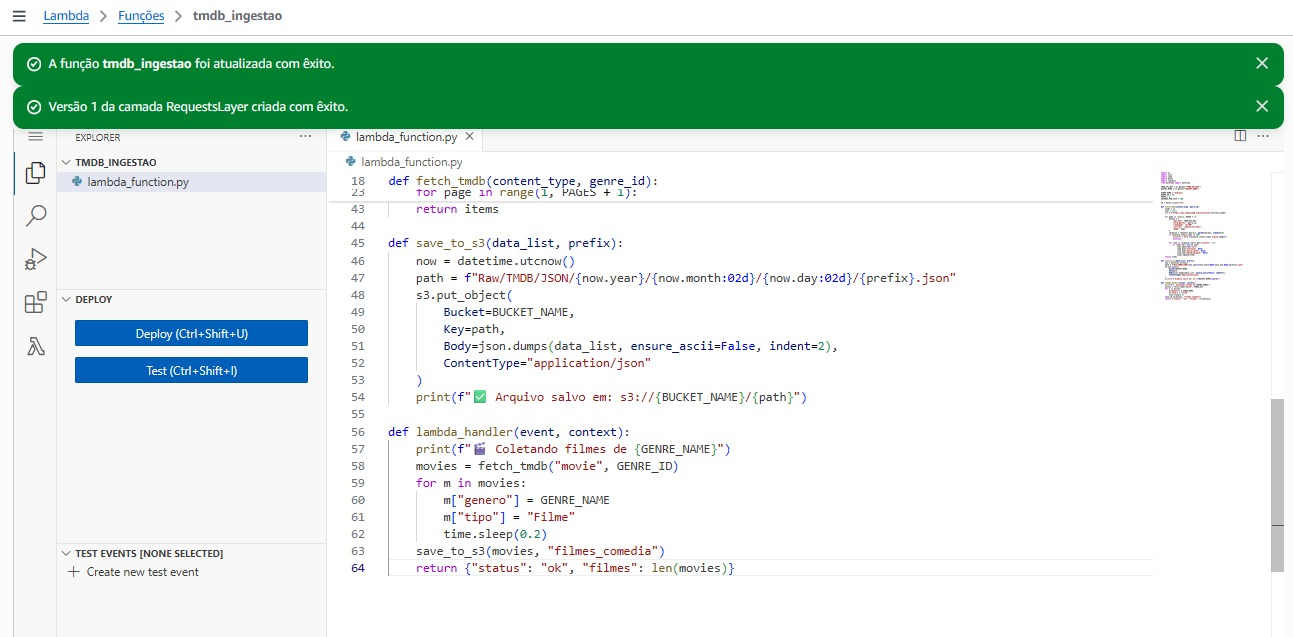
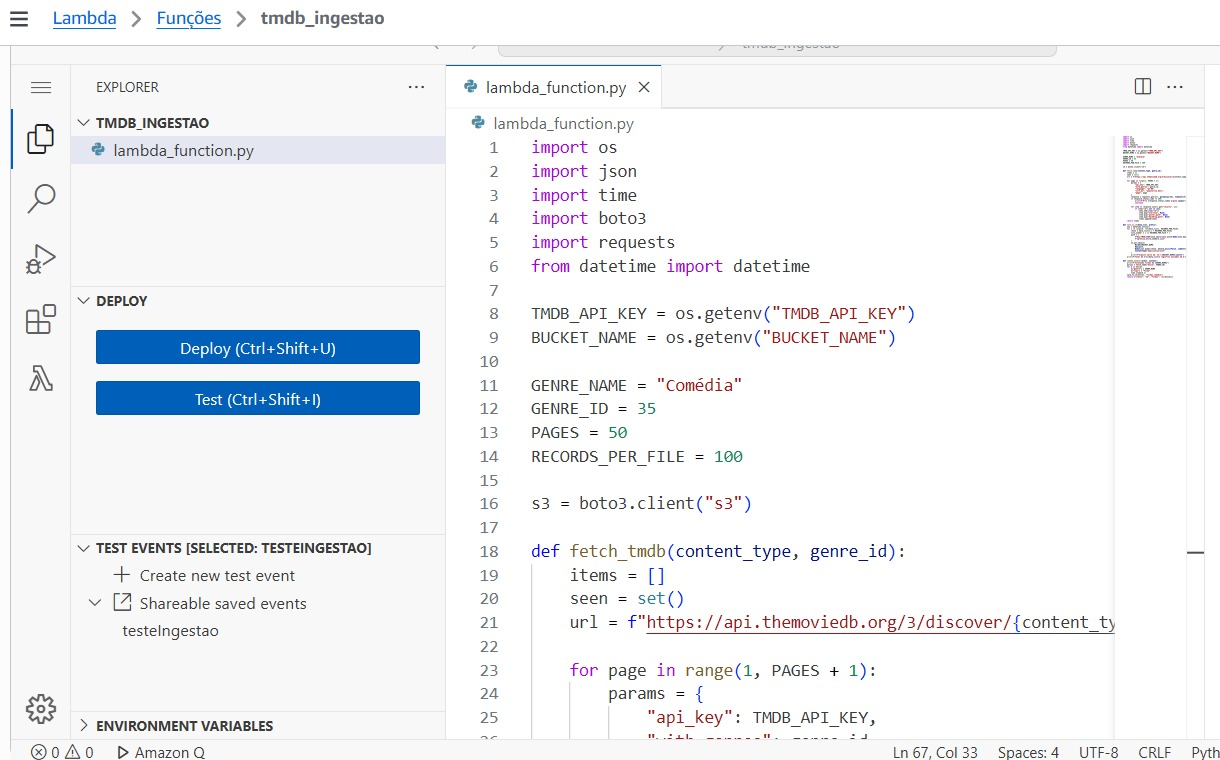
readme da sprint 5 concluído

diff --git a/Sprint_5/Desafio/etapa-2/etapa2.py b/Sprint_5/Desafio/etapa-2/etapa2.py
@@ -30,7 +30,7 @@ def fetch_tmdb(content_type, genre_id):
         }
         response = requests.get(url, params=params, timeout=10)
         if response.status_code != 200:
-            print(f"⚠ Erro {response.status_code} página {page}")
+            print(f"Erro {response.status_code} página {page}")
             continue
 
         for item in response.json().get("results", []):
@@ -44,17 +44,24 @@ def fetch_tmdb(content_type, genre_id):
 
 def save_to_s3(data_list, prefix):
     now = datetime.utcnow()
-    path = f"Raw/TMDB/JSON/{now.year}/{now.month:02d}/{now.day:02d}/{prefix}.json"
-    s3.put_object(
-        Bucket=BUCKET_NAME,
-        Key=path,
-        Body=json.dumps(data_list, ensure_ascii=False, indent=2),
-        ContentType="application/json"
-    )
-    print(f"✅ Arquivo salvo em: s3://{BUCKET_NAME}/{path}")
+    for i in range(0, len(data_list), RECORDS_PER_FILE):
+        chunk = data_list[i:i + RECORDS_PER_FILE]
+        file_number = i // RECORDS_PER_FILE + 1
+        path = (
+            f"Raw/TMDB/JSON/{now.year}/{now.month:02d}/{now.day:02d}/"
+            f"{prefix}_{file_number}.json"
+        )
+        s3.put_object(
+            Bucket=BUCKET_NAME,
+            Key=path,
+            Body=json.dumps(chunk, ensure_ascii=False, indent=2),
+            ContentType="application/json"
+        )
+        print(f"Arquivo salvo em: s3://{BUCKET_NAME}/{path}")
+    print(f"Total de {len(data_list)} registros enviados em múltiplos arquivos.")
 
 def lambda_handler(event, context):
-    print(f"🎬 Coletando filmes de {GENRE_NAME}")
+    print(f"Coletando filmes de {GENRE_NAME}")
     movies = fetch_tmdb("movie", GENRE_ID)
     for m in movies:
         m["genero"] = GENRE_NAME

diff --git a/Sprint_5/README.md b/Sprint_5/README.md
@@ -1,4 +1,4 @@
-# 📍 SPRINT 5
+# 📍 **SPRINT 5**
 
 ## Formação Spark com Pyspark
 
@@ -26,26 +26,33 @@ Durante o curso, aprendi a agregar, processar e armazenar dados para gerar insig
 
 ## **[CERTIFICADOS](https://github.com/aline-hoffmann/scholarship-compass/tree/main/Sprint_5/Certificados)**
 
-[Fundamentals of Analytics on AWS – Part 1](https://github.com/aline-hoffmann/scholarship-compass/blob/main/Sprint_5/Certificados/foa-aws-part1.pdf)
+### [Fundamentals of Analytics on AWS – Part 1](https://github.com/aline-hoffmann/scholarship-compass/blob/main/Sprint_5/Certificados/foa-aws-part1.pdf)
 
 ![imagem](./Evidencias/Certificados/cert-foa-aws-part1.jpg)
 <br>
 <br>
 
-[Introduction to Amazon Athena](https://github.com/aline-hoffmann/scholarship-compass/blob/main/Sprint_5/Certificados/athena-aws.pdf)
+### [Introduction to Amazon Athena](https://github.com/aline-hoffmann/scholarship-compass/blob/main/Sprint_5/Certificados/athena-aws.pdf)
 
 ![imagem](./Evidencias/Certificados/cert-athena.jpg)
 <br>
 <br>
 
-[Serverless Analytics](https://github.com/aline-hoffmann/scholarship-compass/blob/main/Sprint_5/Certificados/serverless-aws.pdf)
+### [Serverless Analytics](https://github.com/aline-hoffmann/scholarship-compass/blob/main/Sprint_5/Certificados/serverless-aws.pdf)
 
 ![imagem](./Evidencias/Certificados/cert-serverless.jpg)
+<br>
 
 ## **[EXERCÍCIOS](https://github.com/aline-hoffmann/scholarship-compass/tree/main/Sprint_5/Exercicios)**
 <br>
 
-## [EVIDÊNCIAS](https://github.com/aline-hoffmann/scholarship-compass/tree/main/Sprint_5/Evidencias)**
+## **[EVIDÊNCIAS](https://github.com/aline-hoffmann/scholarship-compass/tree/main/Sprint_5/Evidencias)**
 <br>
 
 ## **DESAFIO**
+
+O desafio consistia em integrar e analisar dados de filmes e séries utilizando serviços da AWS e a API do TMDB. Primeiro, foi necessário criar um bucket no S3 e enviar os arquivos CSV fornecidos, garantindo que os dados estivessem armazenados de forma organizada e acessível na nuvem. Em seguida, foi desenvolvida uma função Lambda para coletar informações complementares diretamente da API do TMDB, filtrando apenas os filmes do gênero Comédia, conforme o tema definido para o Squad 1.
+
+Todo o processo — desde o upload dos arquivos até a ingestão dos dados via Lambda — foi concluído com sucesso. Os arquivos foram corretamente enviados para o bucket e os dados retornados pela API foram salvos em formato JSON dentro da estrutura do S3, confirmando que as etapas de integração, automação e armazenamento funcionaram conforme o esperado.
+
+Todos os passos e códigos utilizados para a execução do desafio podem ser visualizados [aqui.](https://github.com/aline-hoffmann/scholarship-compass/tree/main/Sprint_5/Desafio)
